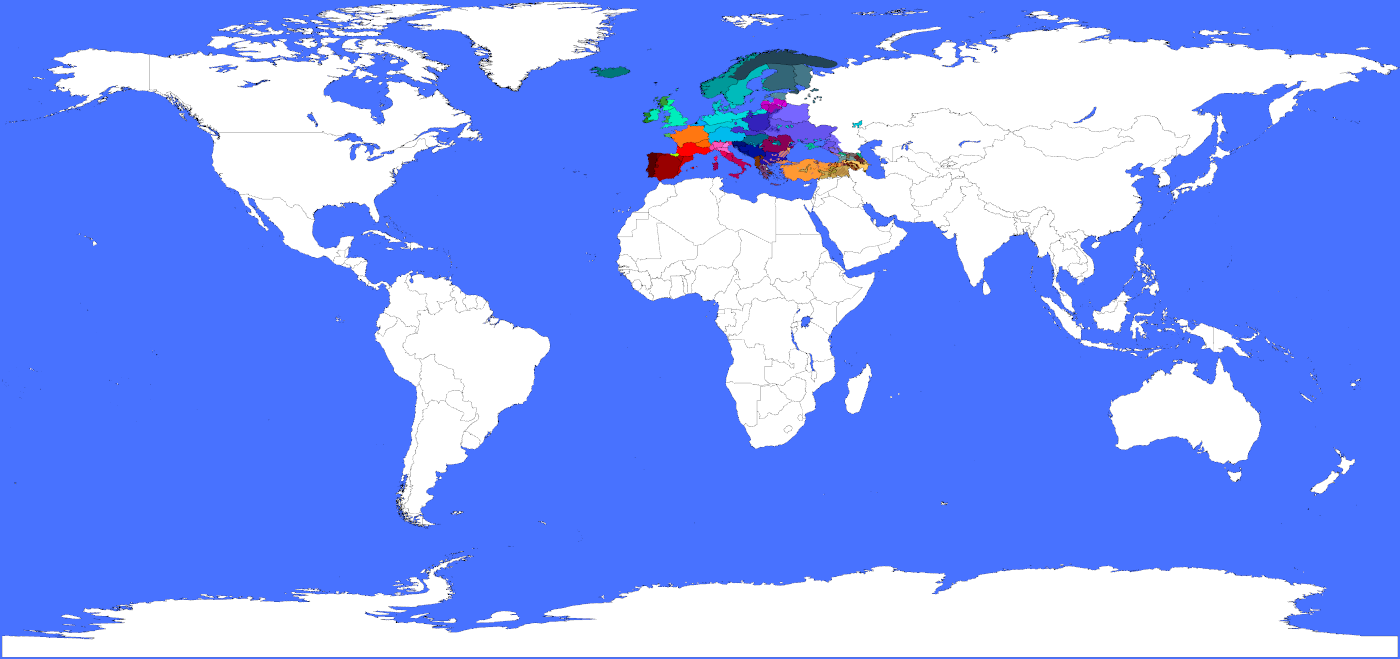
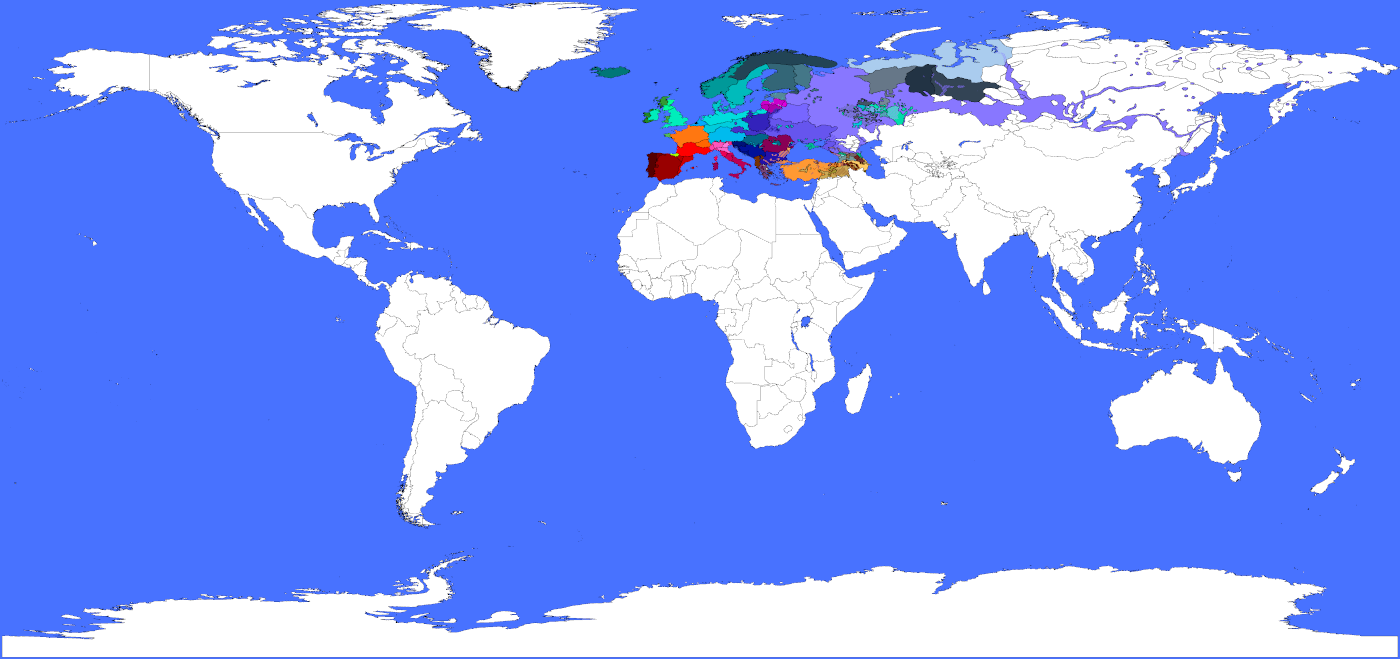
Update hover points and add link for Eastern Europe in index.html; adjust Russian hover point in eastern-europe.html

Changed region(s): [[0.5529, 0.0607, 0.9214, 0.2428], [0.8907, 0.1517, 0.9214, 0.1821], [0.645, 0.2428, 0.6757, 0.2731]]

diff --git a/eastern-europe.html b/eastern-europe.html
@@ -17,8 +17,7 @@
   <div class="map-wrapper">
     <img src="images/GLOSS-eastern-europe-img.png" alt="Language Map" id="map-img-eastern-europe">
     
-    <div class="hover-point" style="left:500px; top:300px; background: #87f;;" title="Russian"></div>
-
+    <div class="hover-point" style="left:335px; top:252x; background: #87f;;" title="Russian"></div>
   </div>
   <footer style="text-align: center; margin-top: 20px; color: #aaa; font-size: 0.9rem;">
     <p>Created by @paulista__ <a href="https://discord.com/channels/@me" target="_blank" style="color: #0ff; text-decoration: none;">on Discord</a></p>

diff --git a/index.html b/index.html
@@ -31,7 +31,10 @@
   <div class="map-wrapper">
     <img src="images/world-map.png" alt="World Map" id="map-img">
     <a href="europe.html">
-      <div class="hover-point" style="left:724px; top: 125px; background:#60f;" title="Europe"></div>
+      <div class="hover-point" style="left:724px; top: 125px; background:#50f;" title="Europe"></div>
+    </a>
+    <a href="eastern-europe.html">
+      <div class="hover-point" style="left:808px; top: 120px; background:#50f;" title="Eastern Europe"></div>
     </a>
   </div>
 
